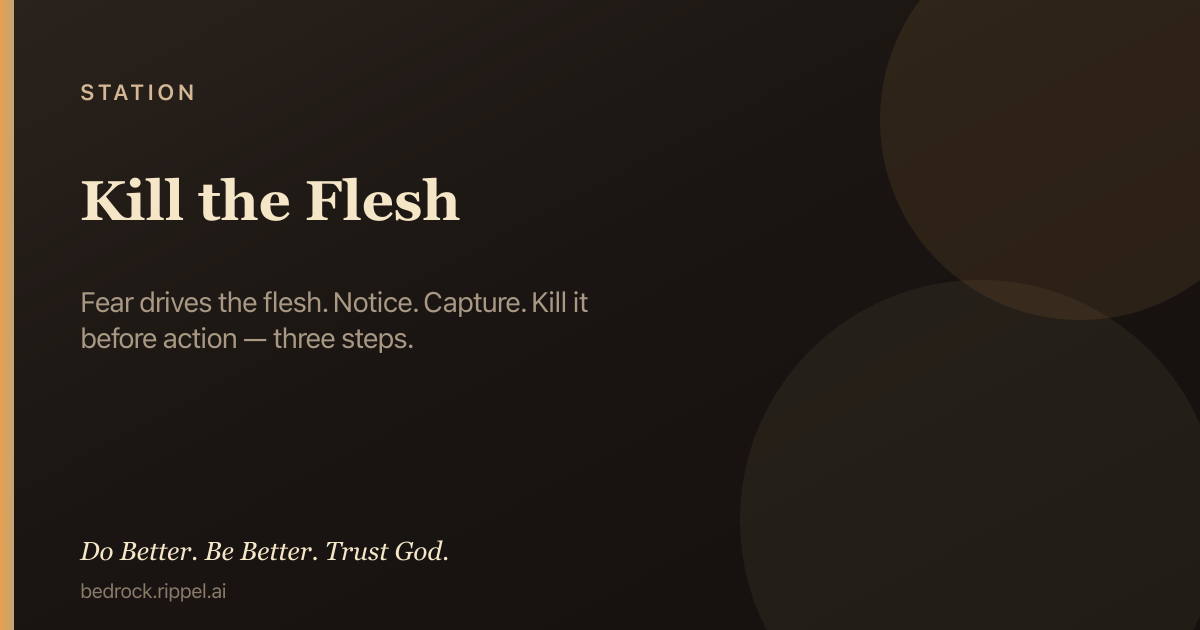
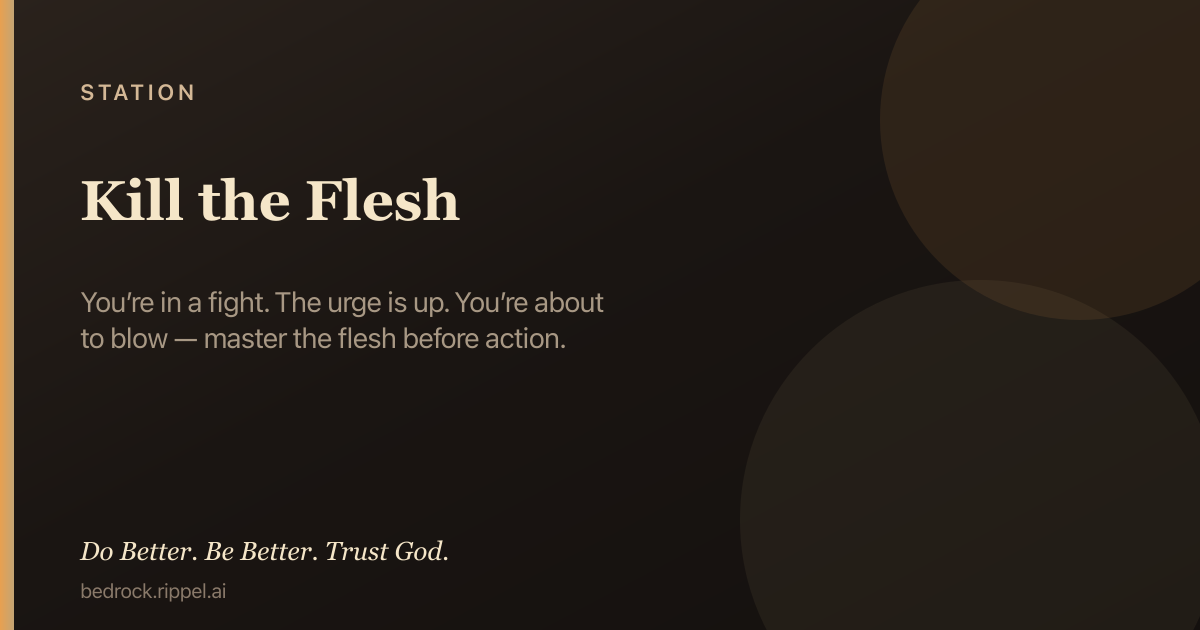
Kill the Flesh: fight kata under God
Battle card for the moment of explosion — see the punch, filter, counter
in three steps, body tools, verse chips. Unto Him: steel, not essay.

Changed region(s): [[0.0617, 0.4524, 0.4933, 0.573]]

diff --git a/public/c/kill-the-flesh.html b/public/c/kill-the-flesh.html
@@ -4,7 +4,7 @@
   <meta charset="utf-8" />
   <meta name="viewport" content="width=device-width, initial-scale=1" />
   <title>Kill the Flesh — Bedrock</title>
-  <meta name="description" content="Fear drives the flesh. Notice. Capture. Kill it before action — three steps. Hold first: Under fire, prayer, then Truth. Do Better. Be Better. Trust God." />
+  <meta name="description" content="You’re in a fight. The urge is up. You’re about to blow — master the flesh before action. Hold first: Under fire, prayer, then Truth. Do Better. Be…" />
   <meta name="robots" content="index, follow, max-image-preview:large, max-snippet:-1" />
   <meta name="ai-content-declaration" content="human-authored Christian field guide; hold-first: Under fire, Prayer, then Truth" />
   <link rel="canonical" href="https://bedrock.rippel.ai/c/kill-the-flesh" />
@@ -12,7 +12,7 @@
   <meta property="og:site_name" content="Bedrock" />
   <meta property="og:type" content="article" />
   <meta property="og:title" content="Kill the Flesh — Bedrock" />
-  <meta property="og:description" content="Fear drives the flesh. Notice. Capture. Kill it before action — three steps. Hold first: Under fire, prayer, then Truth. Do Better. Be Better. Trust God." />
+  <meta property="og:description" content="You’re in a fight. The urge is up. You’re about to blow — master the flesh before action. Hold first: Under fire, prayer, then Truth. Do Better. Be…" />
   <meta property="og:url" content="https://bedrock.rippel.ai/c/kill-the-flesh" />
   <meta property="og:image" content="https://bedrock.rippel.ai/og/c/kill-the-flesh.png" />
   <meta property="og:image:secure_url" content="https://bedrock.rippel.ai/og/c/kill-the-flesh.png" />
@@ -22,14 +22,14 @@
   <meta property="og:image:alt" content="Kill the Flesh — Bedrock" />
   <meta name="twitter:card" content="summary_large_image" />
   <meta name="twitter:title" content="Kill the Flesh — Bedrock" />
-  <meta name="twitter:description" content="Fear drives the flesh. Notice. Capture. Kill it before action — three steps. Hold first: Under fire, prayer, then Truth. Do Better. Be Better. Trust God." />
+  <meta name="twitter:description" content="You’re in a fight. The urge is up. You’re about to blow — master the flesh before action. Hold first: Under fire, prayer, then Truth. Do Better. Be…" />
   <meta name="twitter:image" content="https://bedrock.rippel.ai/og/c/kill-the-flesh.png" />
   <meta name="twitter:image:alt" content="Kill the Flesh — Bedrock" />
   <script type="application/ld+json">
-  {"@context":"https://schema.org","@type":"Article","headline":"Kill the Flesh","description":"Fear drives the flesh. Notice. Capture. Kill it before action — three steps.","url":"https://bedrock.rippel.ai/c/kill-the-flesh","author":{"@type":"Organization","name":"Bedrock","url":"https://bedrock.rippel.ai"},"publisher":{"@type":"Organization","name":"Bedrock","url":"https://bedrock.rippel.ai"},"image":"https://bedrock.rippel.ai/og/c/kill-the-flesh.png","inLanguage":"en","isPartOf":{"@type":"WebSite","name":"Bedrock","url":"https://bedrock.rippel.ai"},"articleSection":"First principle · Hold first","keywords":"Kill the Flesh, Bedrock, Under fire, prayer, Scripture"}
+  {"@context":"https://schema.org","@type":"Article","headline":"Kill the Flesh","description":"You’re in a fight. The urge is up. You’re about to blow — master the flesh before action.","url":"https://bedrock.rippel.ai/c/kill-the-flesh","author":{"@type":"Organization","name":"Bedrock","url":"https://bedrock.rippel.ai"},"publisher":{"@type":"Organization","name":"Bedrock","url":"https://bedrock.rippel.ai"},"image":"https://bedrock.rippel.ai/og/c/kill-the-flesh.png","inLanguage":"en","isPartOf":{"@type":"WebSite","name":"Bedrock","url":"https://bedrock.rippel.ai"},"articleSection":"First principle · Hold first","keywords":"Kill the Flesh, Bedrock, Under fire, prayer, Scripture"}
   </script>
   <script type="application/ld+json">
-  {"@context":"https://schema.org","@type":"HowTo","name":"Use Kill the Flesh under fire (Bedrock hold-first)","description":"Open this chamber for the next right hold: Under fire first, then Prayer, then Truth when you can read.","step":[{"@type":"HowToStep","position":1,"name":"Under fire","text":"Name it: Thoughts · In-person. Root: Fear → Control · Jealousy · Impatience. Filters: self-less? Protect? Honor God? If no → stop. Name. Capture. Stop. Breathe. Other path. Exhale · 3-2-1 · “My emotional state is my own.”"},{"@type":"HowToStep","position":2,"name":"Prayer","text":"Father, this is fear — this is the flesh. I take it captive to Christ. I stop. Amen."},{"@type":"HowToStep","position":3,"name":"Truth","text":"When capacity returns, read the Scripture-rooted body on this page."}],"url":"https://bedrock.rippel.ai/c/kill-the-flesh"}
+  {"@context":"https://schema.org","@type":"HowTo","name":"Use Kill the Flesh under fire (Bedrock hold-first)","description":"Open this chamber for the next right hold: Under fire first, then Prayer, then Truth when you can read.","step":[{"@type":"HowToStep","position":1,"name":"Under fire","text":"You’re in a fight. Name it: fear — the flesh. Surfaces: thoughts · in-person. Filters: self-less? Protect? Honor God? If no → stop. BAM: Name. Capture to Christ. Stop. Breathe. Other path. Exhale · 3-2-1 · “My emotional state is my own.”"},{"@type":"HowToStep","position":2,"name":"Prayer","text":"Father, this is fear — this is the flesh. I take it captive to Christ. I stop. I choose Your path. Amen."},{"@type":"HowToStep","position":3,"name":"Truth","text":"When capacity returns, read the Scripture-rooted body on this page."}],"url":"https://bedrock.rippel.ai/c/kill-the-flesh"}
   </script>
   <script>
 (function(){
@@ -78,7 +78,7 @@
   <main class="wrap">
     <p class="kicker">First principle · Bedrock · Hold first</p>
     <h1>Kill the Flesh</h1>
-    <p class="summary">Fear drives the flesh. Notice. Capture. Kill it before action — three steps.</p>
+    <p class="summary">You’re in a fight. The urge is up. You’re about to blow — master the flesh before action.</p>
     <nav class="nav" aria-label="Chamber actions">
       <a class="primary" href="/?c=kill-the-flesh">Open in field guide</a>
       <a href="/c/kill-the-flesh.md">Markdown</a>
@@ -88,43 +88,48 @@
     <section class="hold" aria-labelledby="fire">
       <p class="kicker-hold">This hour</p>
       <h2 id="fire">Under fire</h2>
-      <ul><li>Name it: Thoughts · In-person. Root: Fear → Control · Jealousy · Impatience.</li>
+      <ul><li>You’re in a fight. Name it: fear — the flesh. Surfaces: thoughts · in-person.</li>
 <li>Filters: self-less? Protect? Honor God? If no → stop.</li>
-<li>Name. Capture. Stop. Breathe. Other path. Exhale · 3-2-1 · “My emotional state is my own.”</li></ul>
+<li>BAM: Name. Capture to Christ. Stop. Breathe. Other path. Exhale · 3-2-1 · “My emotional state is my own.”</li></ul>
       <h2 id="prayer">Prayer</h2>
-      <p class="prayer">Father, this is fear — this is the flesh. I take it captive to Christ. I stop. Amen.</p>
+      <p class="prayer">Father, this is fear — this is the flesh. I take it captive to Christ. I stop. I choose Your path. Amen.</p>
     </section>
     <section class="card" aria-labelledby="truth">
       <h2 id="truth">Truth</h2>
-      <p>Fear drives the actions of the flesh as reactions or reflexes. Master the flesh by noticing and capturing them before action — in three steps.</p>
+      <p>You’re in a fight. The desire is strong. You feel like you’re going to explode. You can’t control it — and you have to. Fear drives the flesh as reaction and reflex. Then: master the flesh. Notice. Capture. Kill it before action — three steps.</p>
 <h3 class="body-head">1. Name it</h3>
+<p>See the punch. Name what is running — not the story, the root.</p>
 <ul class="body-list rubric-list">
 <li>Surfaces: Thoughts · In-person</li>
 <li>Root: Fear</li>
 <li>Fear produces: Control · Jealousy · Impatience</li>
 <li>Downstream: Fear → Control / Jealousy / Impatience → Rage → Bitterness · Habit · Immediate relief</li>
 </ul>
-<p>“This is fear. This is the flesh.”</p>
+<p>Say it: “This is fear. This is the flesh.”</p>
 <h3 class="body-head">2. Three Filters</h3>
+<p>Instant block. All three must pass — or you stop.</p>
 <ul class="body-list rubric-list">
 <li>Is it self-less?</li>
 <li>Does it protect?</li>
 <li>Does it honor God?</li>
 </ul>
-<p>If no → stop.</p>
+<p>If no → stop. Do not negotiate with the flesh.</p>
 <h3 class="body-head">3. Kill the Flesh (3 steps)</h3>
+<p>The counter. Fire this without delay.</p>
 <ul class="body-list rubric-list">
 <li>Name it — “This is fear. This is the flesh.”</li>
 <li>Capture it — Take the thought captive. Give it to Christ.</li>
 <li>Stop. Breathe. Choose the other path.</li>
 </ul>
 <h3 class="body-head">4. Tools in the Moment</h3>
+<p>When the body is still ringing — reset the frame, then return to the three steps.</p>
 <ul class="body-list rubric-list">
 <li>Exhale hard once</li>
-<li>3-2-1 grounding</li>
+<li>3-2-1 grounding — three you see, two you hear, one you feel</li>
 <li>Default phrase: “My emotional state is my own.”</li>
 </ul>
 <h3 class="body-head">5. Core Verses</h3>
+<p>Steel on the belt. Tap a chip under fire.</p>
 <p class="verse-chip-row" aria-label="Scripture">
 <a class="verse-chip" href="https://www.biblegateway.com/passage/?search=James+1%3A19&amp;version=NIV" target="_blank" rel="noopener noreferrer" title="Open James 1:19 on Bible Gateway">James 1:19</a>
 <a class="verse-chip" href="https://www.biblegateway.com/passage/?search=2+Timothy+1%3A7&amp;version=NIV" target="_blank" rel="noopener noreferrer" title="Open 2 Timothy 1:7 on Bible Gateway">2 Timothy 1:7</a>
@@ -138,6 +143,7 @@
 <a class="verse-chip" href="https://www.biblegateway.com/passage/?search=James+5%3A16&amp;version=NIV" target="_blank" rel="noopener noreferrer" title="Open James 5:16 on Bible Gateway">James 5:16</a>
 <a class="verse-chip" href="https://www.biblegateway.com/passage/?search=Matthew+6%3A16-18&amp;version=NIV" target="_blank" rel="noopener noreferrer" title="Open Matthew 6:16–18 on Bible Gateway">Matthew 6:16–18</a>
 </p>
+<p>Longer map when the fight slows: Kill the Flesh. Walk in the Spirit. — the full Standard.</p>
     </section>
     <section class="card" aria-labelledby="scripture">
       <h2 id="scripture">Scripture</h2>

diff --git a/src/lib/content-integrity.test.ts b/src/lib/content-integrity.test.ts
@@ -51,7 +51,7 @@ describe('bedrock content integrity', () => {
     expect(rubricText).not.toMatch(/investigation mode|condemnation mode/)
     expect(rubricText).toMatch(/for men/)
     expect(rubricText).toMatch(/release this to you|sound mind/)
-    // New short card — Name · Filters · Kill · Tools (not the Standard rubric)
+    // Battle card — fight kata: name · filters · kill · tools · verse chips
     expect(byId.has('kill-the-flesh')).toBe(true)
     expect(byId.get('kill-the-flesh')!.title).toBe('Kill the Flesh')
     expect(byId.get('kill-the-flesh')!.kind ?? 'chamber').toBe('chamber')
@@ -65,14 +65,15 @@ describe('bedrock content integrity', () => {
       .join(' ')
       .toLowerCase()
     expect(killText).toMatch(/name it/)
-    expect(killText).toMatch(/fear drives the actions of the flesh|reactions or reflexes|before action/)
+    expect(killText).toMatch(/you're in a fight|going to explode|master the flesh/)
+    expect(killText).toMatch(/fear drives the flesh|reaction and reflex|before action/)
     expect(killText).toMatch(/three filters|self-less|honor god/)
     expect(killText).toMatch(/kill the flesh \(3 steps\)|capture it|choose the other path/)
     expect(killText).toMatch(/tools in the moment|3-2-1|emotional state is my own/)
     expect(killText).toMatch(/fear produces|control|jealousy|impatience/)
-    // Core verses as parenthetical citation → verse chips in UI (not a plain blob list)
-    expect(killText).toMatch(/\(james 1:19.*2 timothy 1:7.*galatians 5:16/i)
+    expect(killText).toMatch(/\(james 1:19.*2 timothy 1:7.*galatians 5:16/)
     expect(killCard.verses.length).toBeGreaterThanOrEqual(10)
+    expect(killCard.hacks.join(' ').toLowerCase()).toMatch(/fight|filters|capture|3-2-1/)
     expect(killCard.related).toContain('kill-the-flesh-walk-in-the-spirit')
     expect(rubric.related).toContain('kill-the-flesh')
     expect(byId.get('control')!.kind ?? 'chamber').toBe('chamber')

diff --git a/public/c/kill-the-flesh.md b/public/c/kill-the-flesh.md
@@ -1,41 +1,47 @@
 # Kill the Flesh
 
-> Fear drives the flesh. Notice. Capture. Kill it before action — three steps.
+> You’re in a fight. The urge is up. You’re about to blow — master the flesh before action.
 
 *Station · Hold first (Under fire → Prayer → Truth) · Bedrock · https://bedrock.rippel.ai/c/kill-the-flesh*
 
 ## Under fire
 
-- Name it: Thoughts · In-person. Root: Fear → Control · Jealousy · Impatience.
+- You’re in a fight. Name it: fear — the flesh. Surfaces: thoughts · in-person.
 - Filters: self-less? Protect? Honor God? If no → stop.
-- Name. Capture. Stop. Breathe. Other path. Exhale · 3-2-1 · “My emotional state is my own.”
+- BAM: Name. Capture to Christ. Stop. Breathe. Other path. Exhale · 3-2-1 · “My emotional state is my own.”
 
 ## Prayer
 
-Father, this is fear — this is the flesh. I take it captive to Christ. I stop. Amen.
+Father, this is fear — this is the flesh. I take it captive to Christ. I stop. I choose Your path. Amen.
 
 ## Truth
 
-Fear drives the actions of the flesh as reactions or reflexes. Master the flesh by noticing and capturing them before action — in three steps.
+You’re in a fight. The desire is strong. You feel like you’re going to explode. You can’t control it — and you have to. Fear drives the flesh as reaction and reflex. Then: master the flesh. Notice. Capture. Kill it before action — three steps.
 
 ## 1. Name it
+
+See the punch. Name what is running — not the story, the root.
 
 - Surfaces: Thoughts · In-person
 - Root: Fear
 - Fear produces: Control · Jealousy · Impatience
 - Downstream: Fear → Control / Jealousy / Impatience → Rage → Bitterness · Habit · Immediate relief
 
-“This is fear. This is the flesh.”
+Say it: “This is fear. This is the flesh.”
 
 ## 2. Three Filters
+
+Instant block. All three must pass — or you stop.
 
 - Is it self-less?
 - Does it protect?
 - Does it honor God?
 
-If no → stop.
+If no → stop. Do not negotiate with the flesh.
 
 ## 3. Kill the Flesh (3 steps)
+
+The counter. Fire this without delay.
 
 - Name it — “This is fear. This is the flesh.”
 - Capture it — Take the thought captive. Give it to Christ.
@@ -43,13 +49,19 @@ If no → stop.
 
 ## 4. Tools in the Moment
 
+When the body is still ringing — reset the frame, then return to the three steps.
+
 - Exhale hard once
-- 3-2-1 grounding
+- 3-2-1 grounding — three you see, two you hear, one you feel
 - Default phrase: “My emotional state is my own.”
 
 ## 5. Core Verses
 
+Steel on the belt. Tap a chip under fire.
+
 [James 1:19](https://www.biblegateway.com/passage/?search=James+1%3A19&version=NIV) · [2 Timothy 1:7](https://www.biblegateway.com/passage/?search=2+Timothy+1%3A7&version=NIV) · [Galatians 5:16](https://www.biblegateway.com/passage/?search=Galatians+5%3A16&version=NIV) · [Galatians 5:22–23](https://www.biblegateway.com/passage/?search=Galatians+5%3A22-23&version=NIV) · [2 Corinthians 10:5](https://www.biblegateway.com/passage/?search=2+Corinthians+10%3A5&version=NIV) · [Luke 9:23](https://www.biblegateway.com/passage/?search=Luke+9%3A23&version=NIV) · [1 Corinthians 13:4–7](https://www.biblegateway.com/passage/?search=1+Corinthians+13%3A4-7&version=NIV) · [Proverbs 25:28](https://www.biblegateway.com/passage/?search=Proverbs+25%3A28&version=NIV) · [Titus 2:11–12](https://www.biblegateway.com/passage/?search=Titus+2%3A11-12&version=NIV) · [James 5:16](https://www.biblegateway.com/passage/?search=James+5%3A16&version=NIV) · [Matthew 6:16–18](https://www.biblegateway.com/passage/?search=Matthew+6%3A16-18&version=NIV)
+
+Longer map when the fight slows: Kill the Flesh. Walk in the Spirit. — the full Standard.
 
 ## Scripture
 

diff --git a/public/og/README.md b/public/og/README.md
@@ -8,4 +8,4 @@ Generated on content build for social share.
 - Origin (About): `/og/origin.png`
 - Sealed poem (tall): `/og/testimony-poem.png`
 
-Cards: 109 · ~6163 KB total
+Cards: 109 · ~6165 KB total
